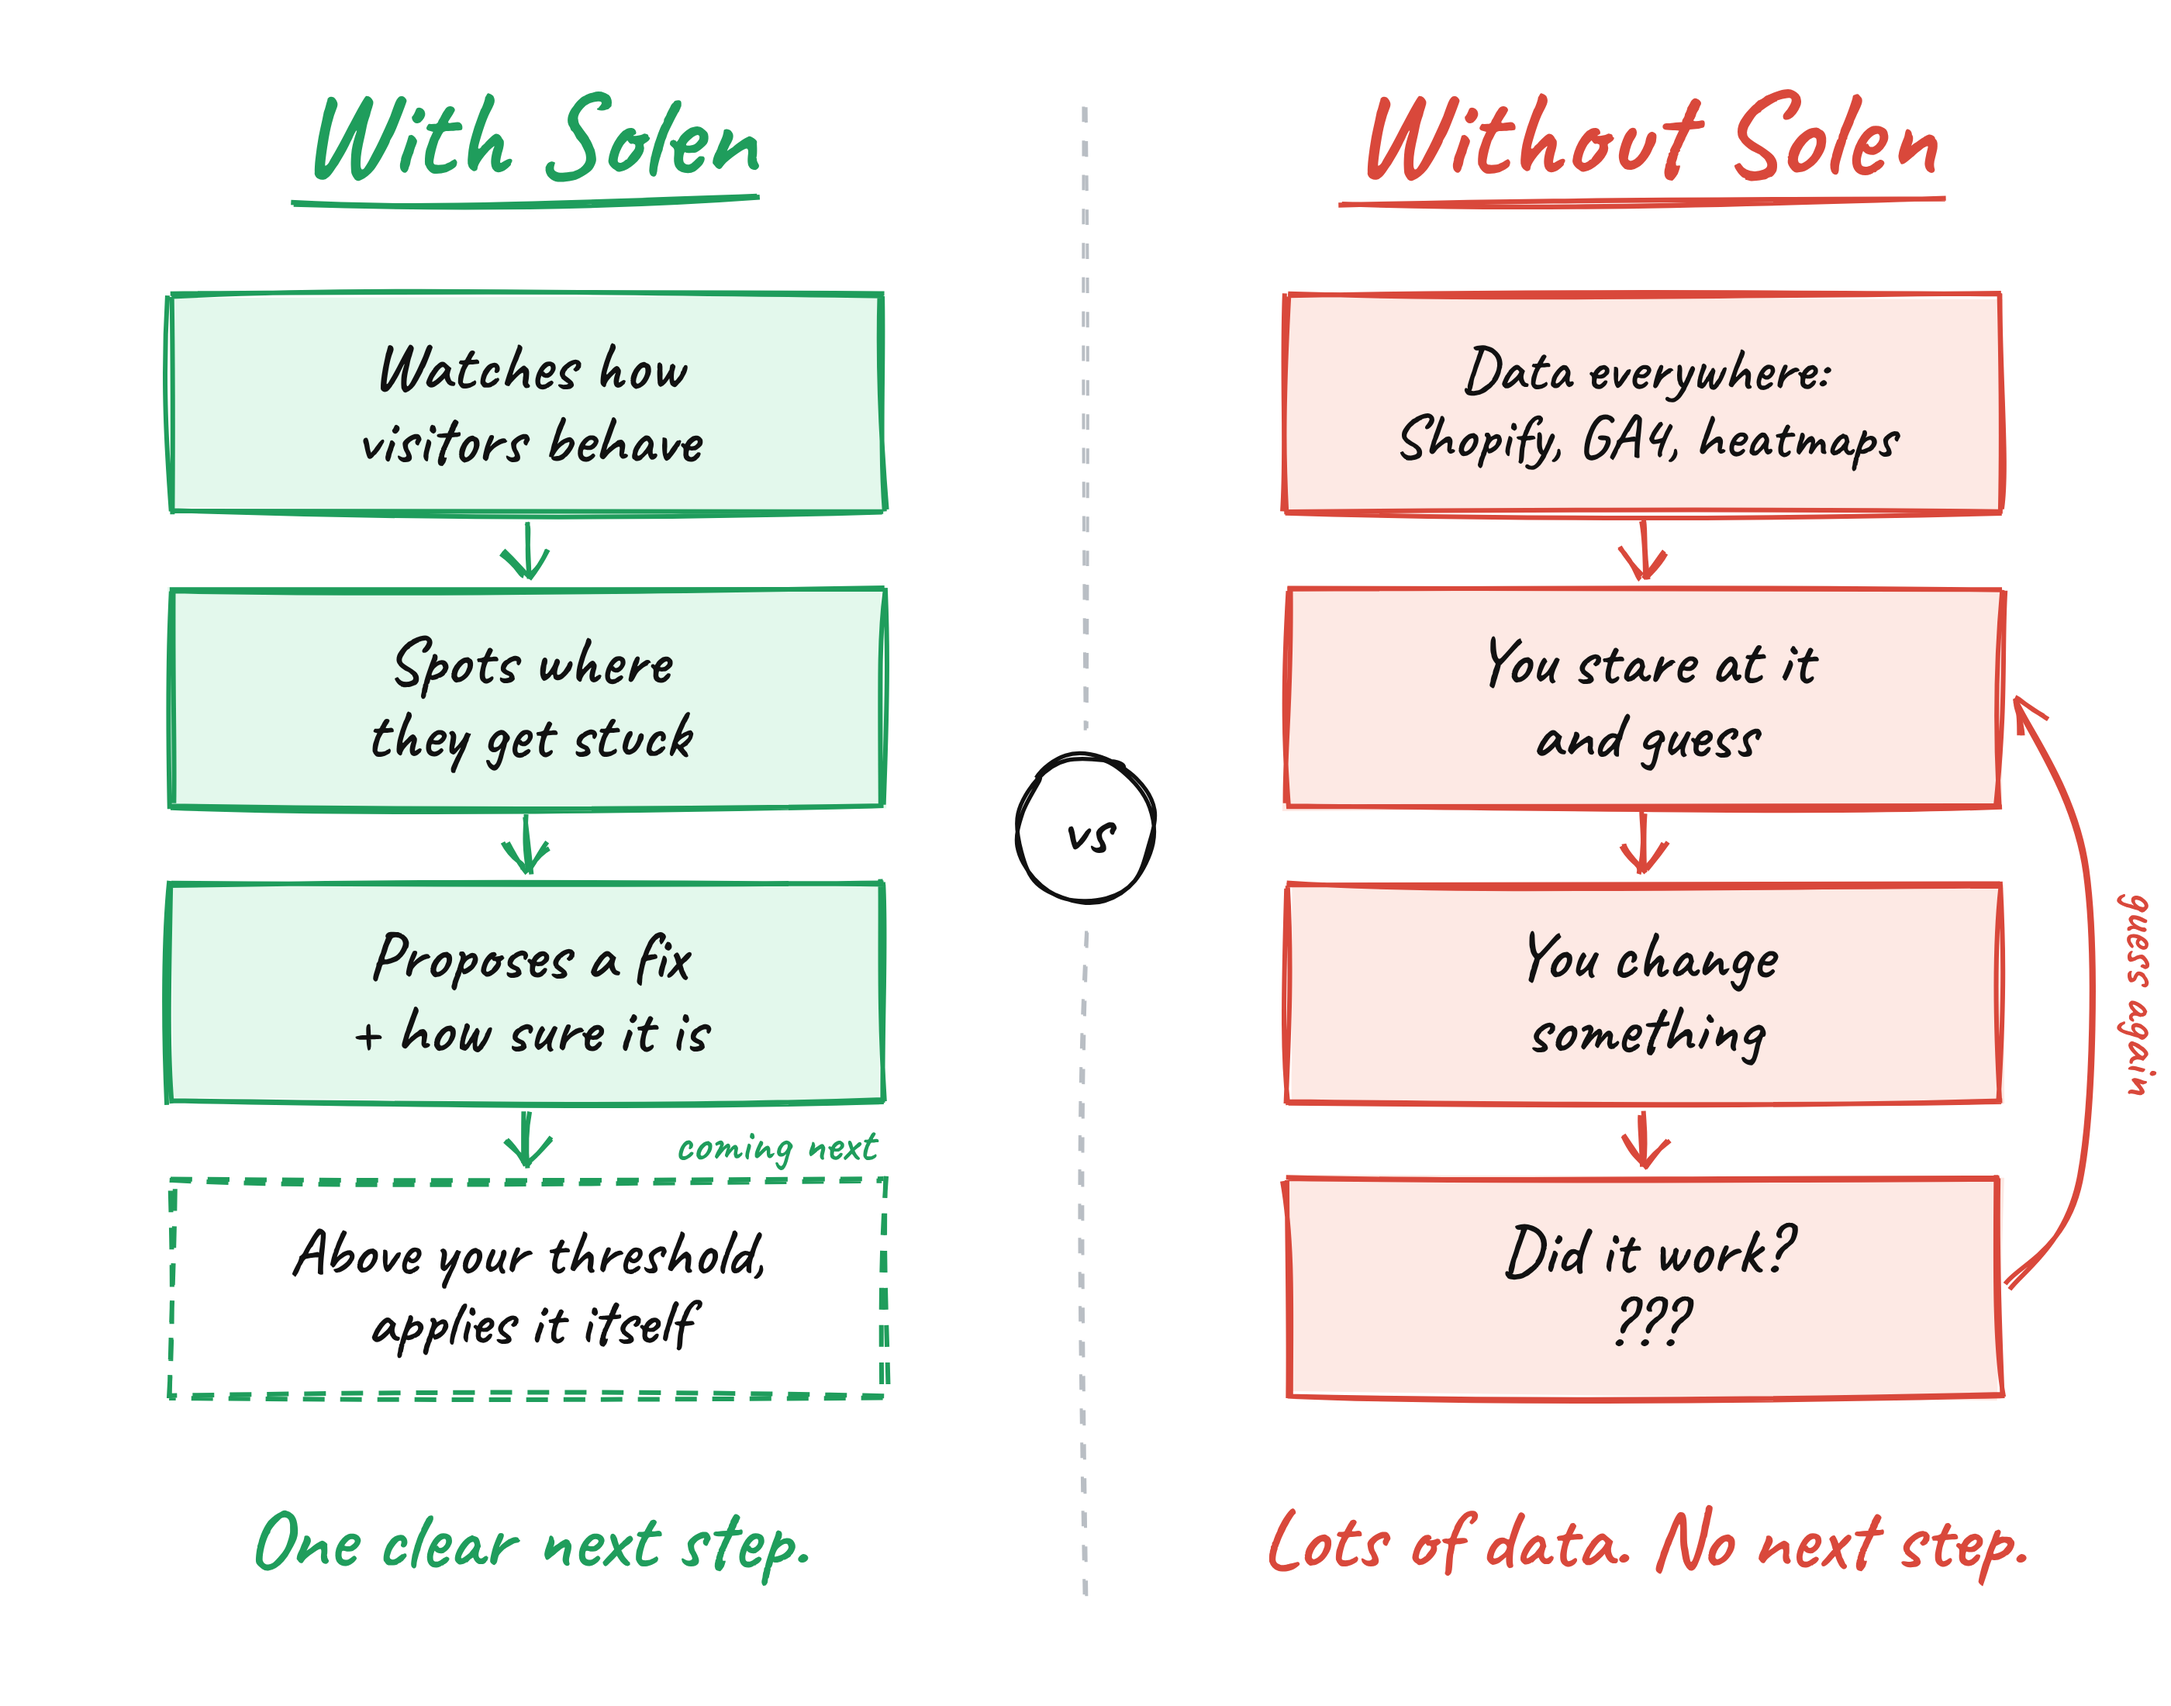
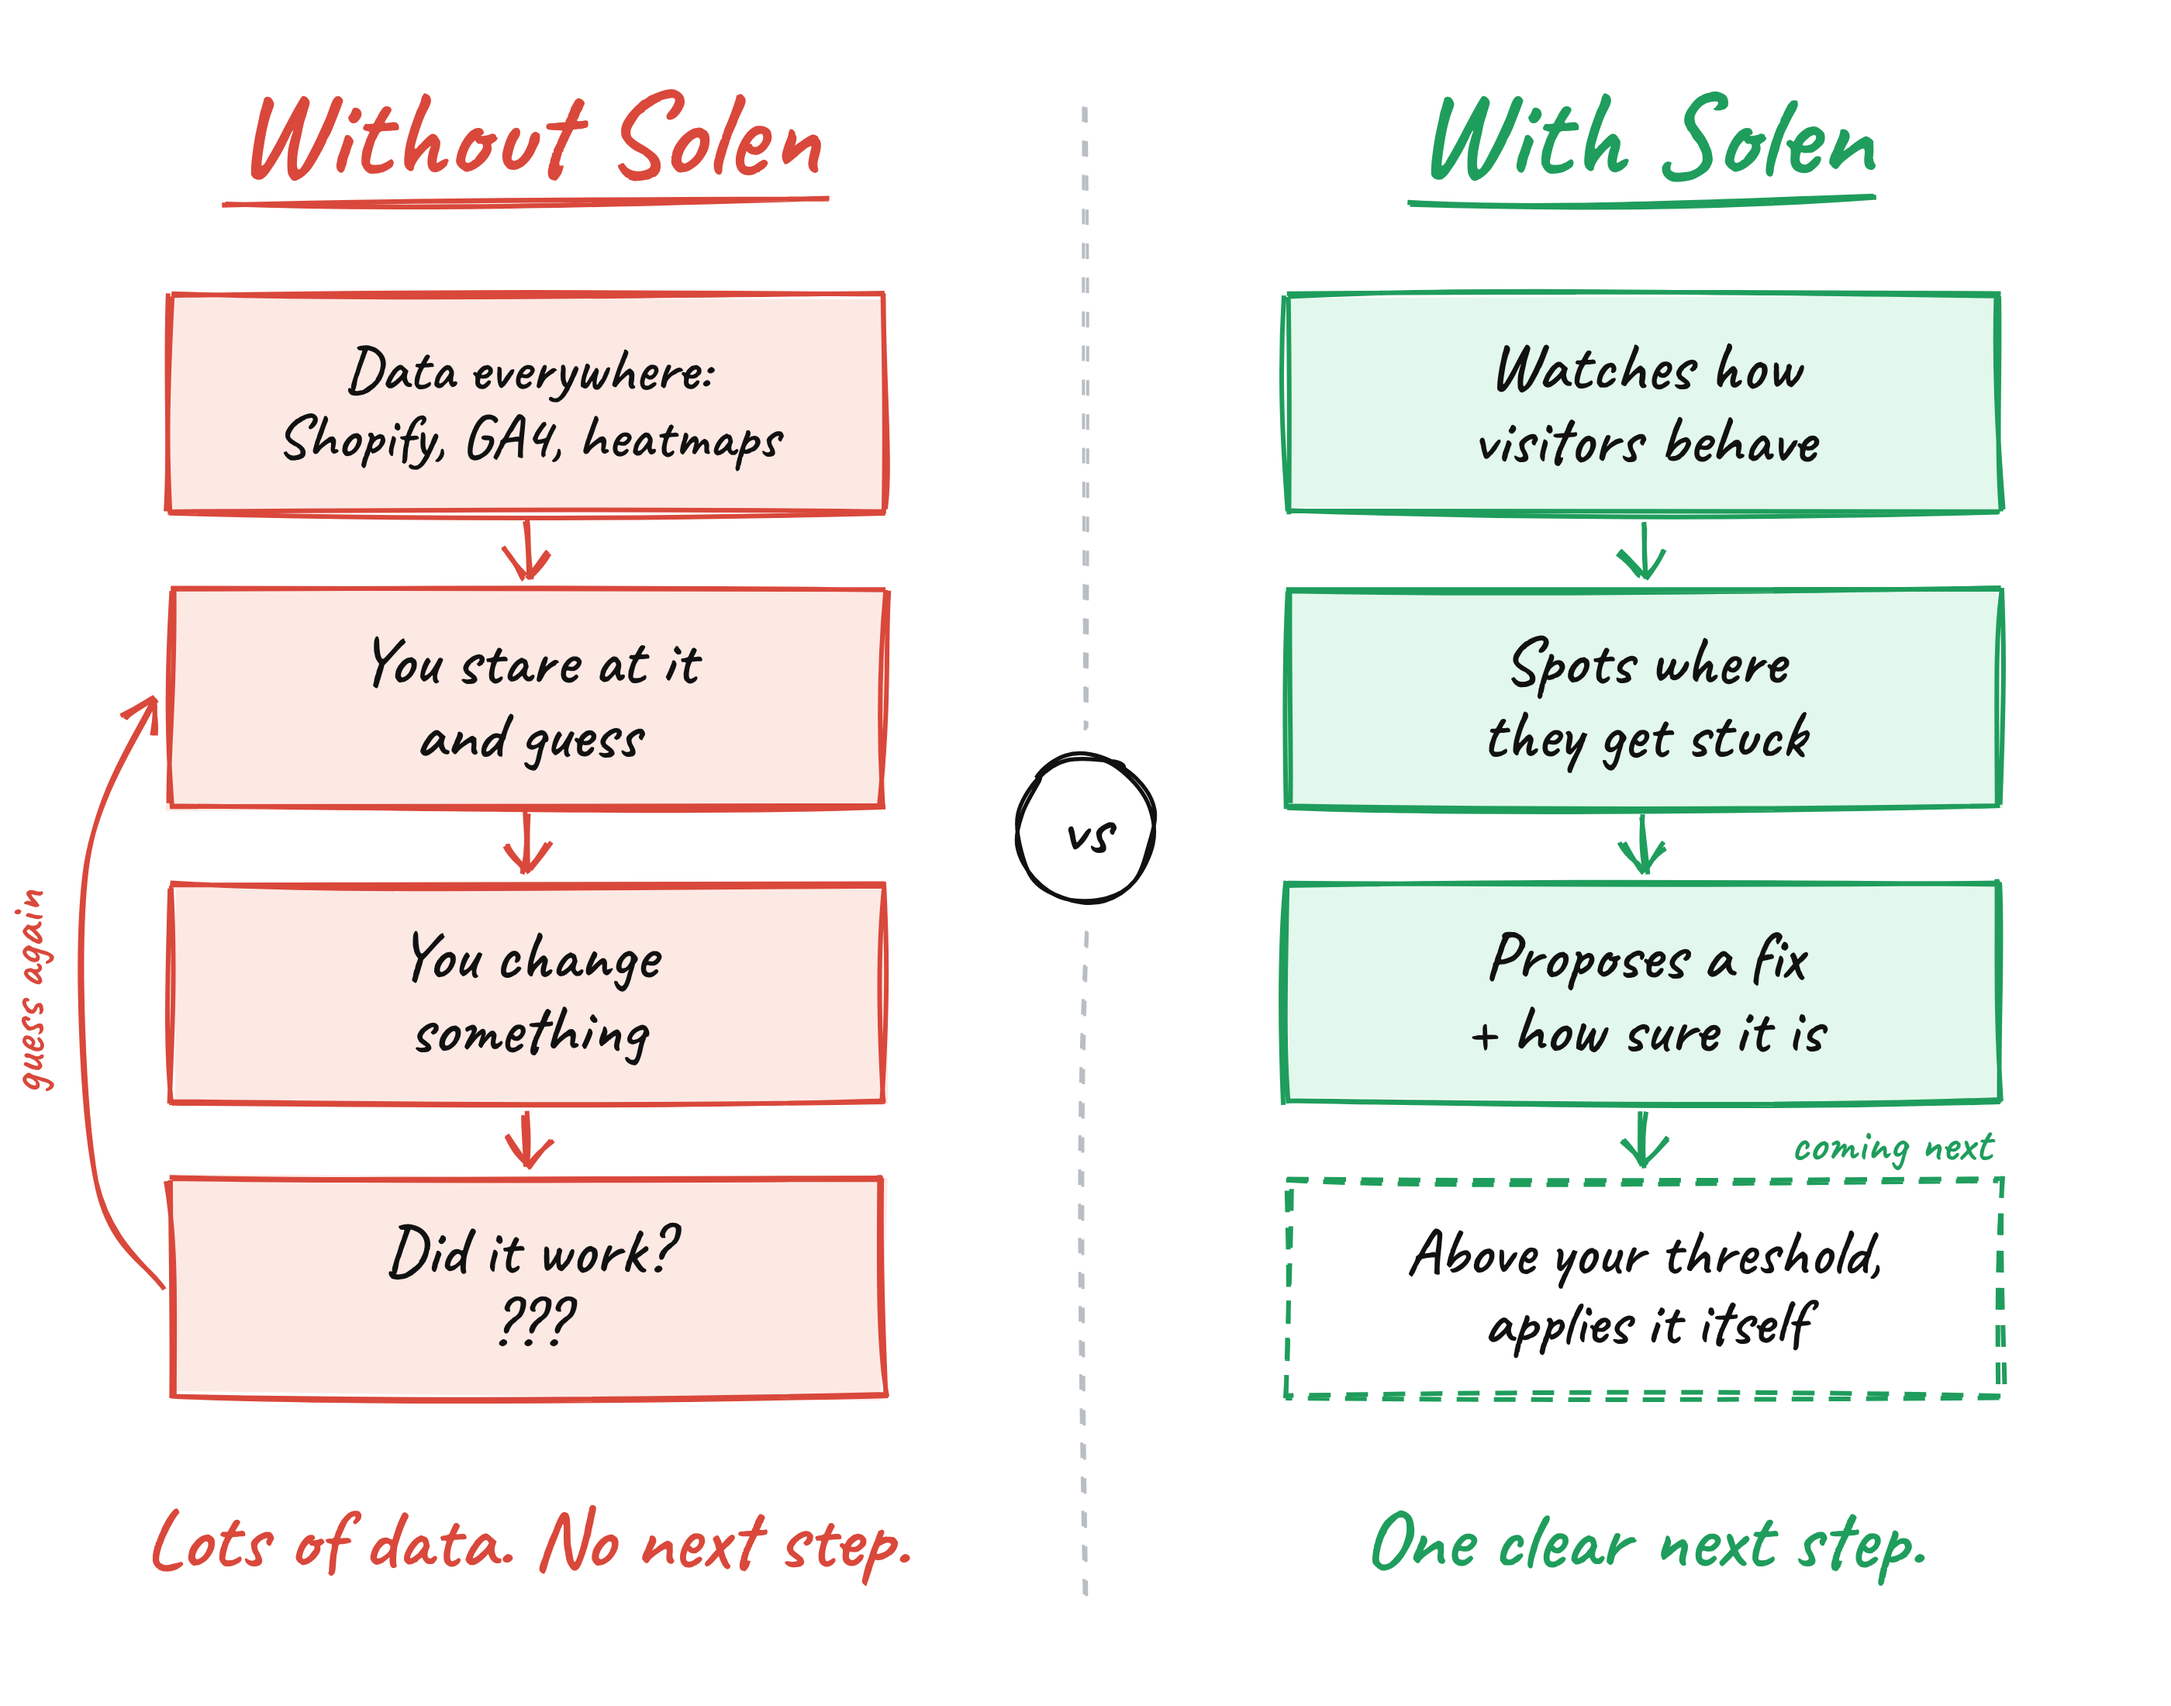
Tally diagram: Without Solen on the left, With Solen on the right
Claude-Session: https://claude.ai/code/session_01BHXAVJFnX9CQrySXqS91xj

diff --git a/design/social/form/_src/sketch.html b/design/social/form/_src/sketch.html
@@ -71,7 +71,7 @@ const W = 310, H = 180, X = [60, 445, 830], Y1 = 150, Y2 = 470;
 
 const scenes = {
 
-  // Une seule image : With Solen à gauche, Without Solen à droite. Fond blanc, couleurs par côté.
+  // Une seule image : Without Solen à gauche, With Solen à droite. Fond blanc, couleurs par côté.
   compare() {
     size(1400, 1100);
     const G = '#1F9D5C', GF = '#E3F8EC', R = '#D9483B', RF = '#FDE9E4', INKC = '#111';
@@ -95,23 +95,23 @@ const scenes = {
       });
       text(x0 + 300, 1010, cap, 54, 'middle', 700, capColor);
     };
-    col(40, G, GF, 'With Solen', [
+    col(760, G, GF, 'With Solen', [
       { lines: ['Watches how', 'visitors behave'] },
       { lines: ['Spots where', 'they get stuck'] },
       { lines: ['Proposes a fix', '+ how sure it is'] },
       { lines: ['Above your threshold,', 'applies it itself'], dashed: true, size: 42, tag: 'coming next' },
     ], 'One clear next step.', G);
-    col(760, R, RF, 'Without Solen', [
+    col(40, R, RF, 'Without Solen', [
       { lines: ['Data everywhere:', 'Shopify, GA4, heatmaps'], size: 40 },
       { lines: ['You stare at it', 'and guess'] },
       { lines: ['You change', 'something'] },
       { lines: ['Did it work?', '???'] },
     ], 'Lots of data. No next step.', R);
     // Boucle « guess again » à droite de la colonne Without
-    add(rc.curve([[1295, 830], [1340, 760], [1345, 560], [1300, 450]], opt({ stroke: R, strokeWidth: 3 })));
-    add(rc.line(1300, 450, 1302, 474, opt({ stroke: R, strokeWidth: 3 })));
-    add(rc.line(1300, 450, 1320, 464, opt({ stroke: R, strokeWidth: 3 })));
-    const g = text(1372, 640, 'guess again', 34, 'middle', 700, R); g.setAttribute('transform', 'rotate(90 1372 640)');
+    add(rc.curve([[105, 830], [60, 760], [55, 560], [100, 450]], opt({ stroke: R, strokeWidth: 3 })));
+    add(rc.line(100, 450, 98, 474, opt({ stroke: R, strokeWidth: 3 })));
+    add(rc.line(100, 450, 80, 464, opt({ stroke: R, strokeWidth: 3 })));
+    const g = text(28, 640, 'guess again', 34, 'middle', 700, R); g.setAttribute('transform', 'rotate(-90 28 640)');
     // Séparation et « vs »
     add(rc.line(700, 70, 700, 470, opt({ stroke: '#B9BEC4', strokeWidth: 2, strokeLineDash: [10, 12] })));
     add(rc.line(700, 600, 700, 1040, opt({ stroke: '#B9BEC4', strokeWidth: 2, strokeLineDash: [10, 12] })));
